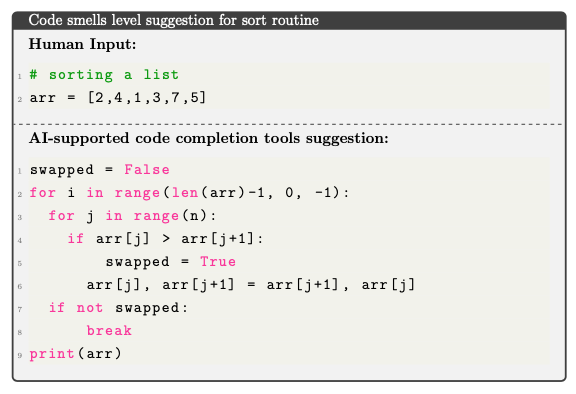
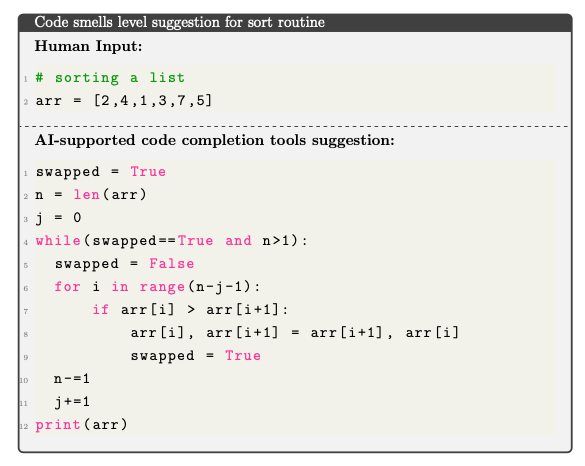
c5 continued

diff --git a/chapters/5/smells.tex b/chapters/5/smells.tex
@@ -1,8 +1,9 @@
 \subsection{Code Smells}
-The code smells level is the penultimate level of abstraction in our taxonomy, This level requires the suggested code satisfy all the previous levels of abstractions and avoid code smells in its suggestions.
+The code smells level is the penultimate level of software abstractions in our taxonomy. 
+This level requires the suggested code satisfy all the previous levels of abstractions and avoid common code smells in its suggestions, these include common bad practices found in public code. This software abstraction level is also requires \cct{} to suggest the most optimized version of all its possible code suggestions.
 
-For example, considering the task of  a task of perform a sorting operation on a list of numbers, to satisfy this level of abstraction, AI-supported code completion tools should
-suggest a syntactically correct list sorting code, which follows the best practices like using appropriate datatype and variable to store the list.
+For example, considering the task of performing a sorting operation on a list of numbers. To satisfy this level of abstraction, \cct{} should suggest a syntactically correct list sorting code, using common patterns like idioms but not including common code smells that occur in public code like resolving edge cases. 
+Figure~\ref{fig:smells} shows the example and the suggestion from \cct{} at this abstraction level.
 
 \begin{figure}[hbt!]
     \centering
@@ -11,10 +12,13 @@ suggest a syntactically correct list sorting code, which follows the best practi
     \label{fig:smells}
 \end{figure}
 
-The capabilities required by a AI-supported code completion tools to satisfy this
-level of abstraction are as follows
+The main goals of this level of software abstraction in our taxonomy is for \cct{} to be able to detect and avoid bad practices such as code smells that commonly occur in public code in its code suggestions to a problem and to suggest the most optimized version as its first suggestion to a programming task.
+
+The capabilities required by \cct{} to satisfy this level of abstraction are as follows:
 \begin{enumerate}
-    \item Suggest a solution that does not have any common code smells found in public code repositories.
+    \item Identify common bad practices such as code smells that occur in public code~(training data).
+    \item Suggest solutions that does not have any code smells.
+    \item Suggested code should the most optimized version of all the possible suggestions \cct{} could create for a given problem.
     \item Satisfy requirements of all the levels below code smells in our taxonomy.
 \end{enumerate}
 
@@ -28,14 +32,17 @@ level of abstraction are as follows
 % \tcbline
 % \textbf{\cct{} suggestion:}
 % \begin{lstlisting}[language={Python}, morekeywords={False, True}]
-% swapped = False
-% for i in range(len(arr)-1, 0, -1):
-% 	for j in range(n):
-% 		if arr[j] > arr[j+1]:
-% 		    swapped = True
-% 			arr[j], arr[j+1] = arr[j+1], arr[j]
-% 	if not swapped:
-% 	    break
+% swapped = True
+% n = len(arr)
+% j = 0
+% while(swapped==True and n>1):
+% 	swapped = False
+% 	for i in range(n-j-1):
+% 	    if arr[i] > arr[i+1]:
+% 	        arr[i], arr[i+1] = arr[i+1], arr[i]
+% 	        swapped = True
+% 	n-=1
+% 	j+=1
 % print(arr)
 % \end{lstlisting}
 % \end{tcolorbox}

diff --git a/chapters/5/idioms.tex b/chapters/5/idioms.tex
@@ -1,7 +1,9 @@
 \subsection{Paradigms and Idioms}
-The paradigms and idioms is the mid level of abstraction in our taxonomy. This level requires the suggested code satisfy all the previous levels of abstractions and use common language idioms in its suggestions. 
+The paradigms and idioms is the mid level of software abstraction in our taxonomy. This level requires the suggested code satisfy all the previous levels of abstractions and use common paradigms and language idioms in its suggestions, these include common practices of performing a task in a programming language. 
+For example, considering the task of sorting operation on a list of numbers. To satisfy this level of abstraction, \cct{} should suggest a syntactically correct list sorting code, using idioms like best way to swap items in a list~(line 8 in fig~\ref{fig:idioms}) instead of using another temp variable~(shown in fig~\ref{fig:correctness}). 
 
-For example, considering the task of sorting operation on a list of numbers, to satisfy this level of abstraction, \cct{} should suggest a syntactically correct list sorting code, using a well know algorithm like quick sort or bubble sort. The main goal of this level in the taxonomy is for a \cct{} to be able to use the current best practices and algorithms in its suggestions.
+The main goal of this level in the taxonomy is for \cct{} to be able to detect and use the commonly used practices occur in public code in its code suggestions to a problem.
+Figure~\ref{fig:idioms} shows the example and the suggestions from \cct{} at this abstraction level.
 
 \begin{figure}[hbt!]
     \centering
@@ -10,9 +12,10 @@ For example, considering the task of sorting operation on a list of numbers, to 
     \label{fig:idioms}
 \end{figure}
 
-The capabilities required by a \cct{} to satisfy this level of abstraction are as follows
+The capabilities required by \cct{} to satisfy this level of abstraction are as follows:
 \begin{enumerate}
-    \item Use well known paradigms and language idioms whenever possible in suggesting a solution for a programming tasks.
+    \item Identify common patterns like paradigms and language idioms in public code~(training data).
+    \item Use paradigms and language idioms in suggesting solutions for a problem.
     \item Satisfy requirements of all the levels below paradigms and idioms in our taxonomy.
 \end{enumerate}
 

diff --git a/chapters/5/taxonomy.tex b/chapters/5/taxonomy.tex
@@ -3,7 +3,7 @@
 Our taxonomy is a software abstraction hierarchy where ``basic programming functionality'' such as code compilation and syntax checking is the lowest abstraction level,
 Software architecture analysis and design is the highest abstraction level.
 As we ascend the levels, just as with Koopman's pyramid in figure \ref{fig:koopman_pyramid}, 
-software challenges rely more on human input and become more difficult to automate (e.g., crafting design rules vs code smells).
+software challenges rely more on human input and become more difficult to automate (e.g., crafting design rules vs following syntax rules).
 
 Figure~\ref{fig:taxonomy} shows the taxonomy of autonomy levels for \cct{}.  The more abstract top levels depend on resolution of lower ones. As we move up the hierarchy, we require more human oversight of the AI; as we move down the hierarchy, rules for detecting problems are easier to formulate. Green levels are areas where \cct{} like Copilot works reasonably well, while red levels are challenging for Copilot as shown in chapters~\ref{chapter:idioms} and~\ref{chapter:smells}.
 

diff --git a/chapters/5/design.tex b/chapters/5/design.tex
@@ -18,3 +18,25 @@ The capabilities required by a \cct{} to satisfy this level of abstraction are a
     \item Picking and suggesting the best applicable algorithm for a given scenario.
     \item Satisfy requirements of all previous levels of abstractions.
 \end{enumerate}
+
+% \begin{tcolorbox}[title=Code smells level suggestion for sort routine,boxsep=.15mm]
+%     %https://tex.stackexchange.com/questions/337909/tcolorbox-tcbline-style
+% \textbf{Human Input:}
+% \begin{lstlisting}[language={Python}]
+% # sorting a list
+% arr = [2,4,1,3,7,5]
+% \end{lstlisting}
+% \tcbline
+% \textbf{\cct{} suggestion:}
+% \begin{lstlisting}[language={Python}, morekeywords={False, True}]
+% swapped = False
+% for i in range(len(arr)-1, 0, -1):
+% 	for j in range(n):
+% 		if arr[j] > arr[j+1]:
+% 		    swapped = True
+% 			arr[j], arr[j+1] = arr[j+1], arr[j]
+% 	if not swapped:
+% 	    break
+% print(arr)
+% \end{lstlisting}
+% \end{tcolorbox}

diff --git a/chapters/5/syntax.tex b/chapters/5/syntax.tex
@@ -12,11 +12,11 @@ Figure~\ref{fig:syntax} shows the example and syntax suggestions from \cct{} at 
 \end{figure}
 
 The goal of this software abstraction level in our taxonomy is for a \cct{} to be able to suggest code without any syntactical errors.
-The capabilities required by a \cct{} to satisfy this level of abstraction are as follows:
+The capabilities required by \cct{} to satisfy this level of abstraction are as follows:
 
 \begin{enumerate}
-    \item Suggested code should not produce any errors in code compilation.
     \item Suggested code should be syntactically correct.
+    \item Suggested code should not produce any errors in code compilation.
 \end{enumerate}
 
 % \begin{tcolorbox}[title=Syntax level suggestion for sort routine,boxsep=.15mm]

diff --git a/chapters/5/correctness.tex b/chapters/5/correctness.tex
@@ -13,7 +13,7 @@ Figure~\ref{fig:correctness} shows the example and the suggestions from \cct{} a
 \end{figure}
 
 The goal of this software abstraction level in our taxonomy is for a \cct{} to be able to suggest a solution rather suggesting the best solution.
-The capabilities required by a \cct{} to satisfy this level of abstraction are as follows:
+The capabilities required by \cct{} to satisfy this level of abstraction are as follows:
 
 \begin{enumerate}
     \item Suggest a solution for a given programming task which may not be the optimal solution for that problem.
